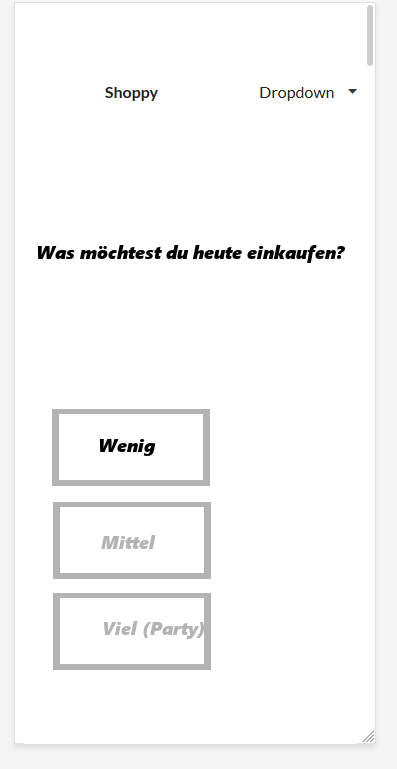
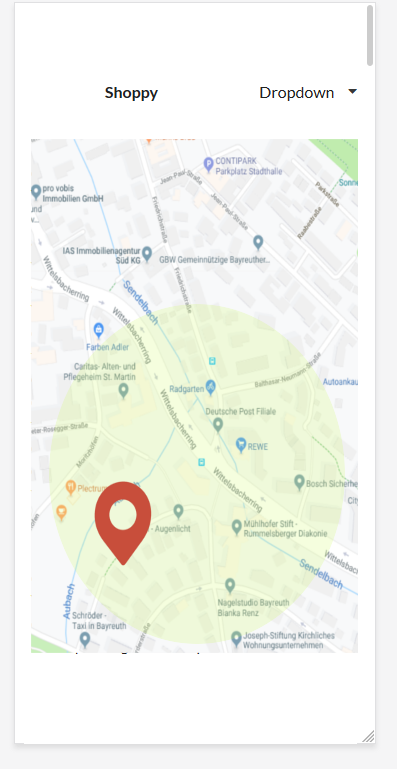
added feedback assignment 3

diff --git a/Assignments/2_assignment.md b/Assignments/2_assignment.md
@@ -1,0 +1,28 @@
+# Assignment 3
+
+## Brainstorming
+
+Mindmap Assignment 1 passt soweit
+
+
+
+## Conceptual Model
+
+Kombination mit den Personas. Technikaffin. Geführter einfacher Prozess.
+
+* Login (optional)
+* Fragen ob man shoppen will und wieviel (small/medium/big)
+* Location freigeben
+* Routenvorschläge mit Reiseoptionen anzeigen. Ziel Visualisierung durch Marker und Radius auf der Map 
+
+
+
+### Feedback (Conceptual Model):
+
+<u>**KonzeptualModel: Die Abstraktion.**</u>
+
+<u>Our Users are familiar with GoogleMaps, Simple Guided Apps, Promotional Apps from supermarkets and local transportation systems. So we want to combine our app to create a Local-Search-Engine for an efficient way to a suggested supermarket and on the other end a Promotional Provider for the supermarkets and local transportation provider.</u>
+
+## Prototyp
+
+Passt soweit
